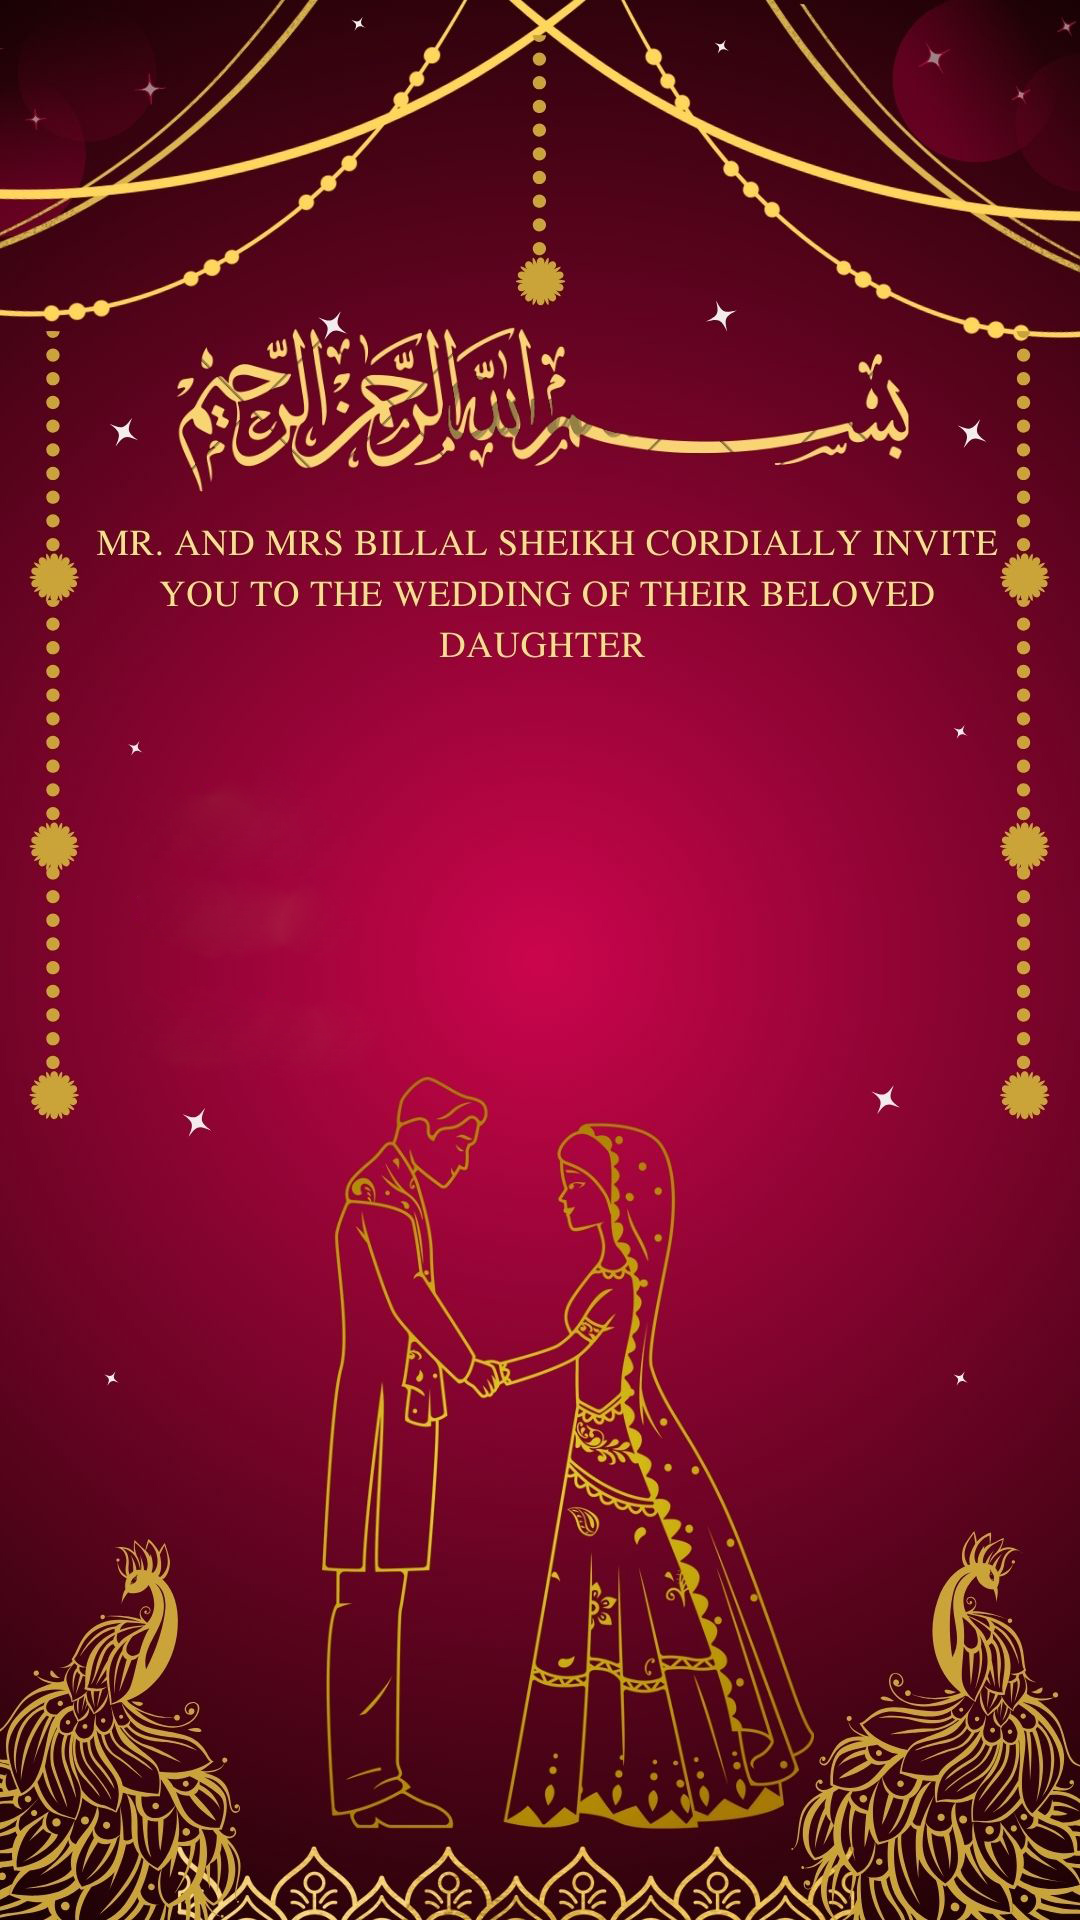
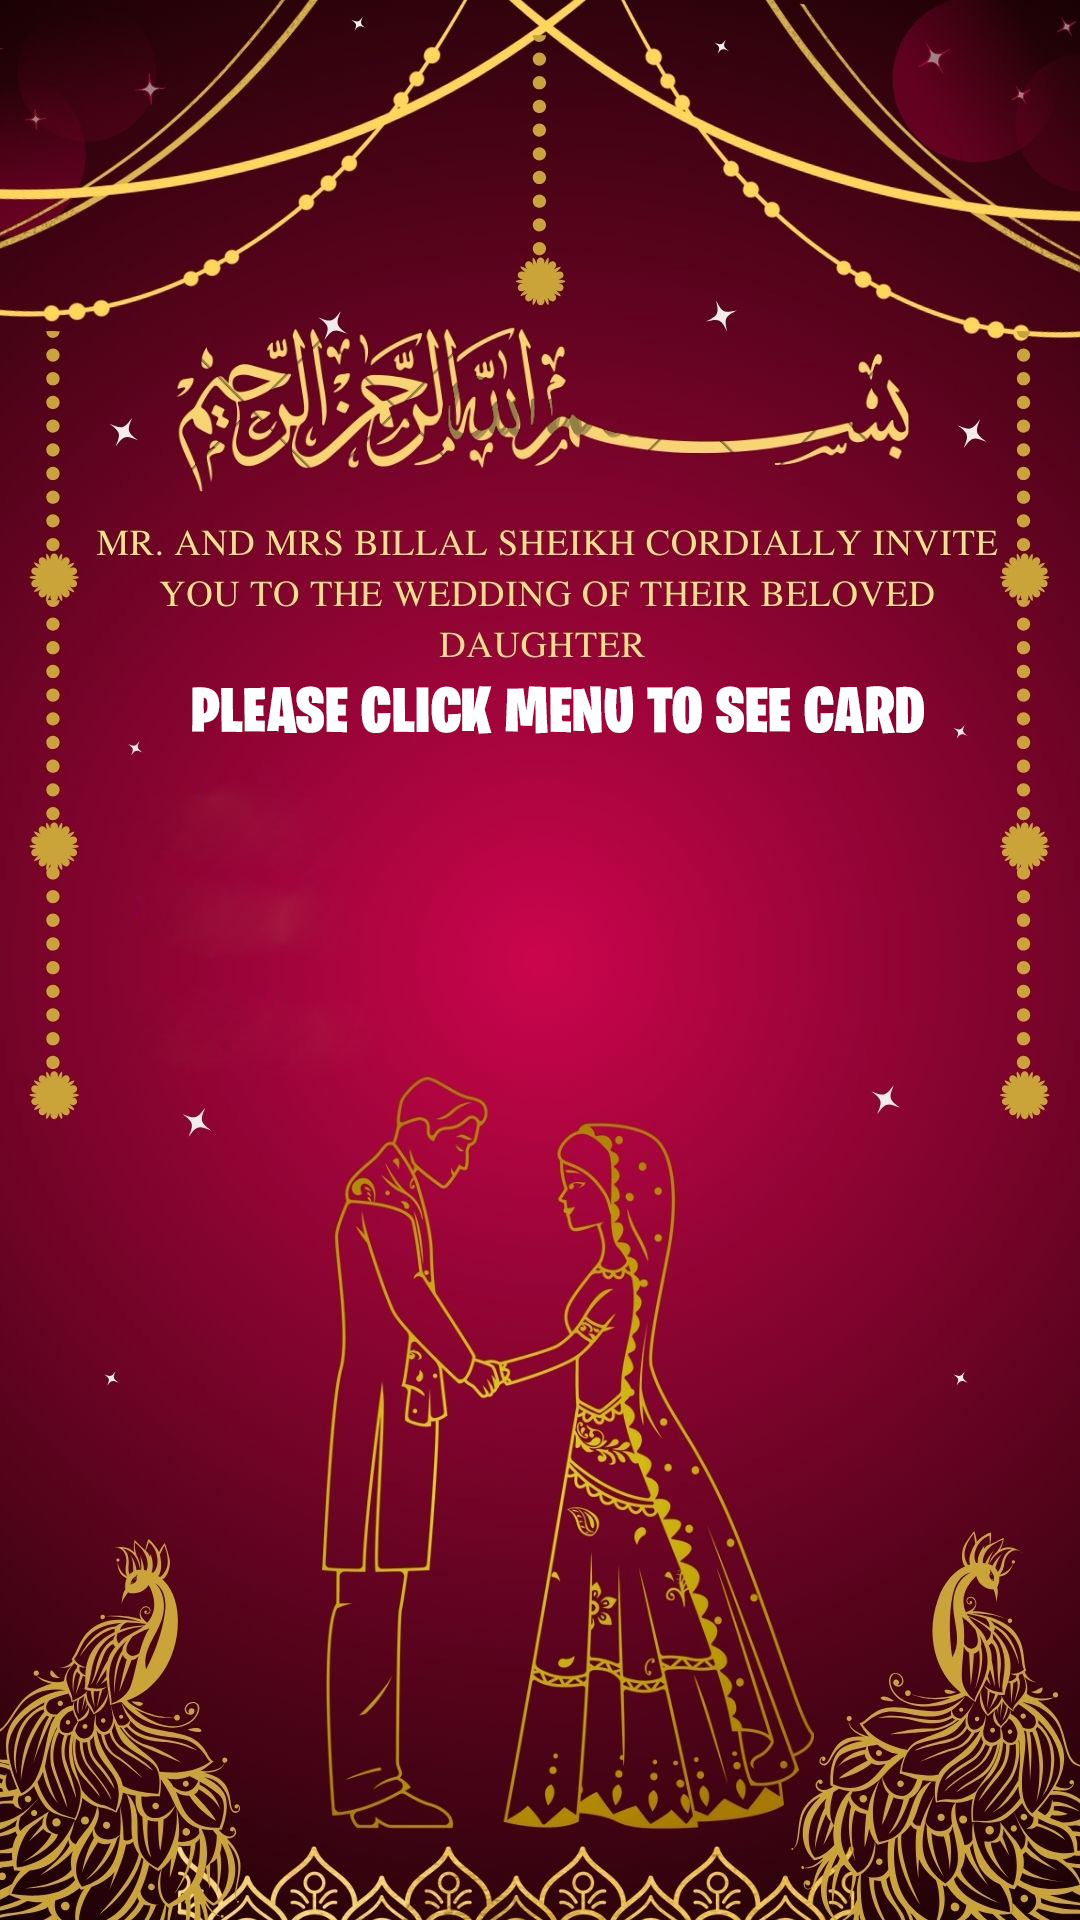
Updated the website with new changes

Changed region(s): [[0.1833, 0.3438, 0.8556, 0.4062]]

diff --git a/src/front.jsx b/src/front.jsx
@@ -8,9 +8,11 @@ function Front() {
   console.log(event);
   return (
     <div className="main">
+      {/* <h3>Please </h3> */}
       <div className="inner">
         <img src={img} alt="" />
         <div className="fonts">
+  
           <Link to="/haldi"><button className='m_btn' value="haldi" onClick={(e)=>setevent(e.target.value)}>Haldi</button></Link>
           <Link to="/mehndi"><button className='m_btn'value="mehndi" onClick={(e)=>setevent(e.target.value)}>Mehndi</button></Link>
           <Link to="/walima"><button className='m_btn' value="walima" onClick={(e)=>setevent(e.target.value)}>Shadi</button></Link>

diff --git a/src/App.css b/src/App.css
@@ -62,22 +62,20 @@ border: 1px solid white;
 
 
   /* animation  */
+/* App.css */
 .diary-page-enter {
-  transform: rotateX(90deg);
-  transform-origin: top;
   opacity: 0;
 }
 .diary-page-enter-active {
-  transform: rotateX(0deg);
   opacity: 1;
-  transition: transform 1000ms ease, opacity 1000ms ease;
+  transition: opacity 2000ms ease-in-out;
 }
 .diary-page-exit {
-  transform: rotateX(0deg);
   opacity: 1;
 }
 .diary-page-exit-active {
-  transform: rotateX(90deg);
   opacity: 0;
-  transition: transform 1000ms ease, opacity 1000ms ease;
+  transition: opacity 2000ms ease-in-out;
 }
+
+  

diff --git a/src/App.jsx b/src/App.jsx
@@ -16,7 +16,7 @@ function App() {
       <CSSTransition
         key={location.key}
         classNames="diary-page"
-        timeout={800} // Duration of the animation
+        timeout={2000} // Duration of the animation
       >
         <Routes location={location}>
           <Route path="/" element={<Front />} />
